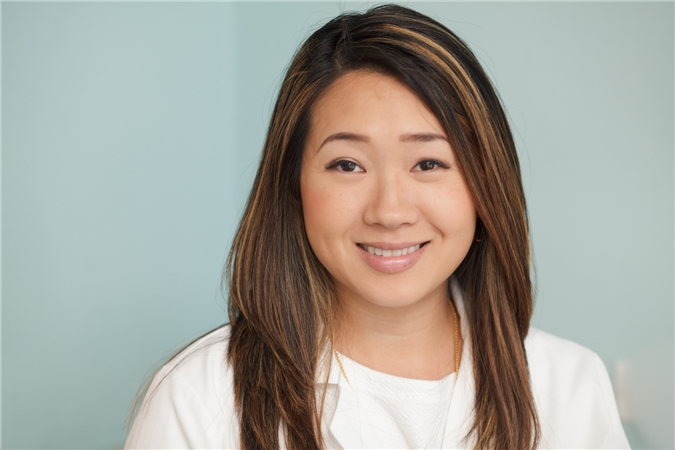
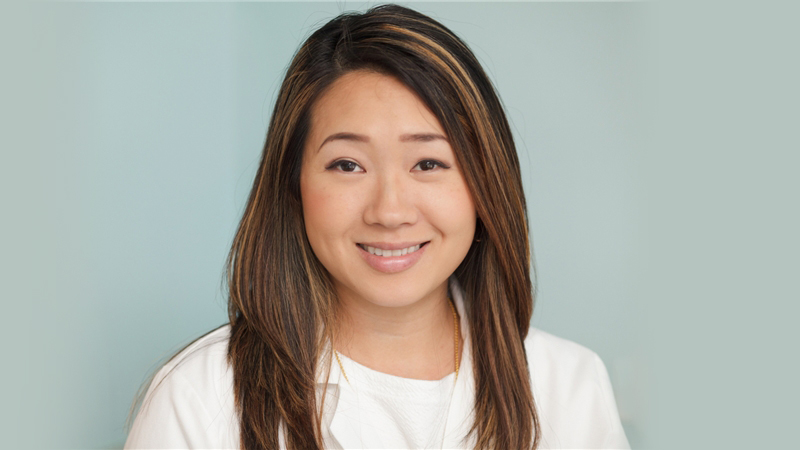
services landing reformatted

diff --git a/src/components/Pages/ServicesLanding/ServicesLanding.js b/src/components/Pages/ServicesLanding/ServicesLanding.js
@@ -8,7 +8,7 @@ const services_landing = props => (
       <h1>OUR SERVICES</h1>
     </div>
     <div className="services-landing-row">
-      <div className="services-landing-item">
+      <div className="services-landing-col">
         <img src={require("../../../images/cleaning.svg")} alt="cleaning" />
         <div className="services-landing-text">
           <h2>General Dentistry</h2>
@@ -21,7 +21,7 @@ const services_landing = props => (
           </p>
         </div>
       </div>
-      <div className="services-landing-item">
+      <div className="services-landing-col">
         <img src={require("../../../images/invisalign.svg")} alt="invisalign" />
         <div className="services-landing-text">
           <h2>Cosmetic Dentistry</h2>
@@ -33,7 +33,7 @@ const services_landing = props => (
           </p>
         </div>
       </div>
-      <div className="services-landing-item">
+      <div className="services-landing-col">
         <img src={require("../../../images/implant.svg")} alt="impant" />
         <div className="services-landing-text">
           <h2>Pediatric Dentistry</h2>
@@ -46,7 +46,7 @@ const services_landing = props => (
           </p>
         </div>
       </div>
-      <div className="services-landing-item">
+      <div className="services-landing-col">
         <img src={require("../../../images/perio.svg")} alt="perio" />
         <div className="services-landing-text">
           <h2>Dental Implants</h2>
@@ -58,7 +58,7 @@ const services_landing = props => (
           </p>
         </div>
       </div>
-      <div className="services-landing-item">
+      <div className="services-landing-col">
         <img src={require("../../../images/perio.svg")} alt="perio" />
         <div className="services-landing-text">
           <h2>Oral Surgery</h2>
@@ -71,7 +71,7 @@ const services_landing = props => (
           </p>
         </div>
       </div>
-      <div className="services-landing-item">
+      <div className="services-landing-col">
         <img src={require("../../../images/perio.svg")} alt="perio" />
         <div className="services-landing-text">
           <h2>Periodontics</h2>

diff --git a/src/components/Pages/ServicesLanding/ServicesLanding.css b/src/components/Pages/ServicesLanding/ServicesLanding.css
@@ -7,17 +7,16 @@
 }
 
 .services-landing-title {
-  font-family: "Red Hat Text", sans-serif;
-  margin: 0 10% 5% 10%;
+  margin: 0 10% 0 5%;
   padding-top: 5%;
-  line-height: 1.75em;
   text-align: center;
 }
 
 .services-landing-title h1 {
+  font-family: "Red Hat Display", sans-serif;
   margin-top: 0px;
-  padding-top: 40px;
   font-size: 3em;
+  line-height: 1.75em;
 }
 
 .services-landing-title p {
@@ -43,57 +42,61 @@
   flex-wrap: wrap;
   justify-content: center;
 }
-.services-landing-row h2 {
-  font-family: "Montserrat", sans-serif;
-  font-weight: 600;
-  font-size: 1.5em;
-}
 
-.services-landing-row p {
-  font-family: "Montserrat", sans-serif;
-  line-height: 1.75em;
-  font-size: 1.35em;
-}
-
-.services-landing-item {
-  display: inline-block;
-  vertical-align: top;
+.services-landing-col {
+  display: block;
+  text-align: center;
   width: 50%;
   height: 30%;
   border-style: none;
   padding-bottom: 5%;
 }
 
-.services-landing-item img {
-  display: inline-block;
-  vertical-align: top;
+.services-landing-col img {
   max-width: 50px;
-  height: 60px;
+  height: 80px;
+  margin-bottom: 20px;
 }
+
 .services-landing-text {
-  display: inline-block;
-  vertical-align: top;
+  margin-left: auto;
+  margin-right: auto;
   text-align: left;
-  width: 60%;
-  margin-left: 10px;
+  width: 80%;
   word-wrap: break-word;
 }
 
+.services-landing-text h2 {
+  font-family: "Montserrat", sans-serif;
+  font-weight: 600;
+  font-size: 1.5em;
+}
+
+.services-landing-text p {
+  font-family: "Montserrat", sans-serif;
+  line-height: 1.75em;
+  font-size: 1.35em;
+}
+
 @media only screen and (max-width: 660px) {
-  .services-landing-item {
+  .services-landing-col {
     width: 100%;
     margin-top: 10px;
   }
 
-  .services-landing-item p {
+  .services-landing-col p {
     font-size: 1em;
   }
 
-  .services-landing-item h2 {
+  .services-landing-col h2 {
     font-size: 1.5em;
   }
-  .services-landing-item img {
+  .services-landing-col img {
     height: 40px;
+  }
+
+  .services-landing-text {
+    width: 90%;
   }
 }
 .services-landing-container button {

diff --git a/src/components/Pages/Bio/Bio.css b/src/components/Pages/Bio/Bio.css
@@ -4,27 +4,26 @@
   text-align: center;
   width: 100%;
 }
-@media only screen and (max-width: 970px) {
+/* @media only screen and (max-width: 970px) {
   .intro-bio {
     flex-direction: column;
   }
-}
+} */
 
 .intro-bio-row {
   display: flex;
-  flex-direction: row;
   flex-wrap: wrap;
-  width: 100%;
 }
-.intro-bio-row img {
-  height: auto;
-  width: 100%;
-}
+
 .intro-bio-column {
-  display: flex;
-  flex-direction: column;
+  flex: 50%;
+}
+.intro-bio-img {
+  background-color: #b5c4bf;
+}
+.intro-bio-img img {
+  vertical-align: middle;
   width: 100%;
-  flex: 1;
 }
 
 .intro-bio-copy {
@@ -63,7 +62,6 @@
     width: 180px;
     font-size: 0.8em;
   }
-
   .intro-bio-copy h1 {
     font-size: 1.75em;
   }

diff --git a/src/components/Pages/Bio/Bio.js b/src/components/Pages/Bio/Bio.js
@@ -6,7 +6,12 @@ const bio = props => (
   <section className="intro-bio">
     <div className="intro-bio-row">
       <div classsName="intro-bio-column">
-        <img src={require("../../../images/dr-jane.jpg")} alt="jane-profile" />
+        <div className="intro-bio-img">
+          <img
+            src={require("../../../images/dr-jane.jpg")}
+            alt="jane-profile"
+          />
+        </div>
       </div>
       <div className="intro-bio-column">
         <div className="intro-bio-copy">

diff --git a/src/components/Pages/ServicesList/ServicesList.css b/src/components/Pages/ServicesList/ServicesList.css
@@ -7,17 +7,17 @@
 }
 
 .services-title {
-  font-family: "Red Hat Text", sans-serif;
   margin: 0 10% 5% 10%;
   padding-top: 5%;
-  line-height: 1.75em;
   text-align: center;
 }
 
 .services-title h1 {
+  font-family: "Red Hat Text", sans-serif;
   margin-top: 0px;
   padding-top: 40px;
   font-size: 3em;
+  line-height: 1.75em;
 }
 
 .services-title p {

diff --git a/src/components/Footer/Footer.css b/src/components/Footer/Footer.css
@@ -39,6 +39,10 @@
   font-size: 1.5em;
 }
 
+.contact li:nth-child(5) {
+  font-weight: 600;
+}
+
 .gmap iframe {
   margin: 0;
   padding-left: 30px;

diff --git a/src/components/Pages/Welcome/Welcome.css b/src/components/Pages/Welcome/Welcome.css
@@ -30,6 +30,7 @@
     margin: 2rem 0 0 2rem;
   }
 }
+
 .welcome-greeting h1 {
   font-family: "Red Hat Display", sans-serif;
   font-size: 8em;
